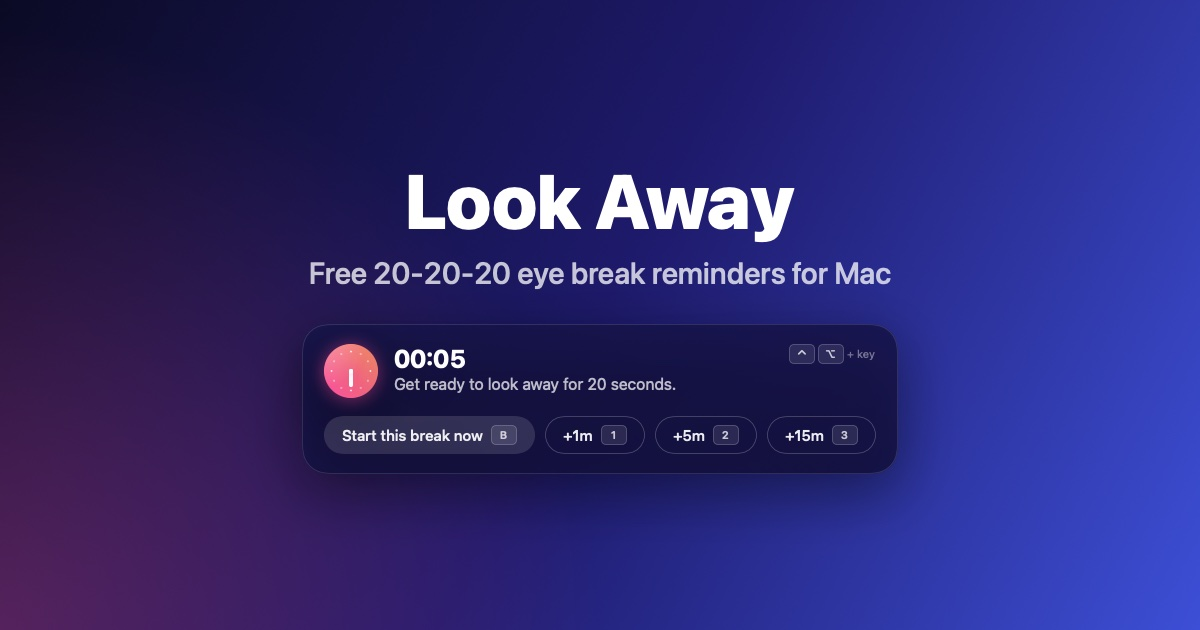
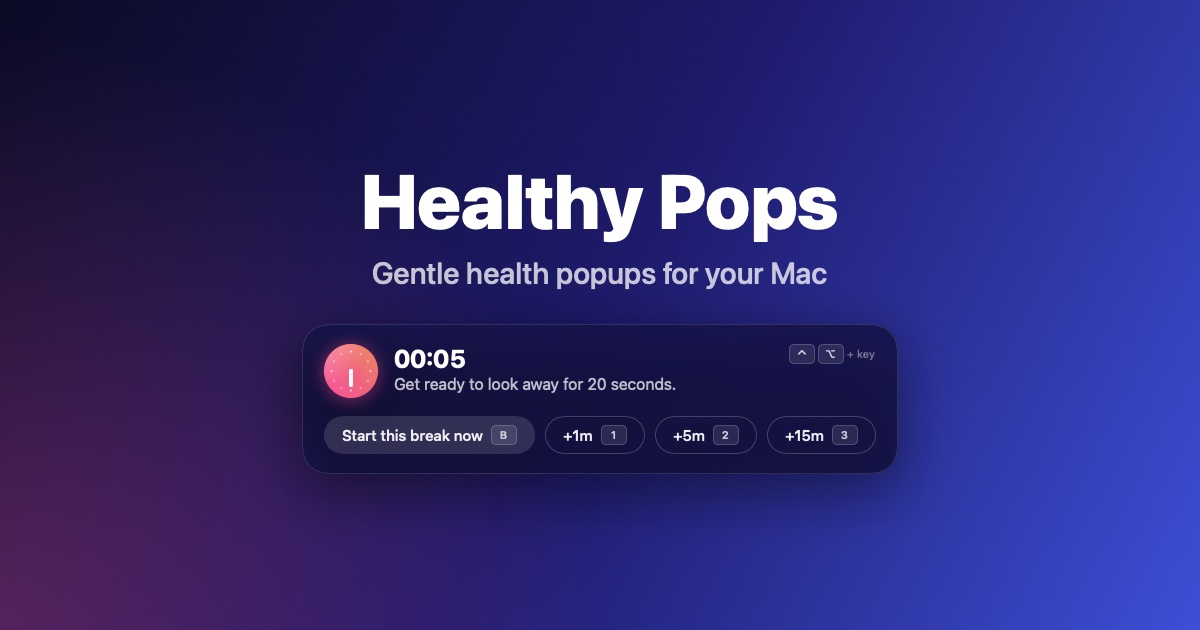
Rebrand to Healthy Pops
- App, menu, DMG and executable are now Healthy Pops / HealthyPops; the
  bundle ID stays the same so existing settings carry over, and
  build.sh --install replaces the old Look Away.app
- Release workflow publishes HealthyPops.dmg and deploys the site to
  the healthy-pops Cloudflare Pages project
- Landing page: new name, title and copy covering eye breaks, water,
  posture and custom popups; URLs point at healthy-pops.pages.dev and
  the renamed GitHub repo; refreshed social image
- Debug env var renamed to HEALTHYPOPS_DEBUG

Changed region(s): [[0.2775, 0.2714, 0.7092, 0.3921], [0.2467, 0.3921, 0.74, 0.4524]]

diff --git a/site/index.html b/site/index.html
@@ -3,10 +3,10 @@
 <head>
 <meta charset="utf-8">
 <meta name="viewport" content="width=device-width, initial-scale=1">
-<title>Look Away – Free 20-20-20 Eye Break Reminder for Mac</title>
-<meta name="description" content="Look Away is a free, open-source Mac menu bar app that reminds you to follow the 20-20-20 rule, drink water and fix your posture. Quiet during calls. No account, no tracking.">
-<meta name="keywords" content="20-20-20 rule app, eye strain Mac, eye break reminder, screen break app macOS, digital eye strain, posture reminder Mac, water reminder Mac, LookAway alternative, free break timer">
-<link rel="canonical" href="https://look-away.pages.dev/">
+<title>Healthy Pops – Free Eye Break, Water &amp; Posture Reminders for Mac</title>
+<meta name="description" content="Healthy Pops is a free, open-source Mac menu bar app with gentle popups for the 20-20-20 eye rule, drinking water, posture and your own custom reminders. Quiet during calls. No account, no tracking.">
+<meta name="keywords" content="20-20-20 rule app, eye strain Mac, eye break reminder, screen break app macOS, digital eye strain, posture reminder Mac, water reminder Mac, healthy pops, developer health app, custom reminders Mac, LookAway alternative, free break timer">
+<link rel="canonical" href="https://healthy-pops.pages.dev/">
 <meta name="robots" content="index, follow, max-image-preview:large">
 <meta name="theme-color" content="#0b0a24">
 <meta name="color-scheme" content="dark">
@@ -15,33 +15,33 @@
 <script>document.documentElement.classList.add('js')</script>
 
 <meta property="og:type" content="website">
-<meta property="og:site_name" content="Look Away">
-<meta property="og:title" content="Look Away – Free 20-20-20 Eye Break Reminder for Mac">
-<meta property="og:description" content="Gentle eye-break, water and posture reminders in your Mac menu bar. Quiet during calls. Free and open source.">
-<meta property="og:url" content="https://look-away.pages.dev/">
-<meta property="og:image" content="https://look-away.pages.dev/og.jpg">
+<meta property="og:site_name" content="Healthy Pops">
+<meta property="og:title" content="Healthy Pops – Free Eye Break, Water &amp; Posture Reminders for Mac">
+<meta property="og:description" content="Tiny popups that keep developers healthy: 20-20-20 eye breaks, water, posture and custom reminders. Quiet during calls. Free and open source.">
+<meta property="og:url" content="https://healthy-pops.pages.dev/">
+<meta property="og:image" content="https://healthy-pops.pages.dev/og.jpg">
 <meta property="og:image:width" content="1200">
 <meta property="og:image:height" content="630">
-<meta property="og:image:alt" content="Look Away reminder pill below the Mac menu bar">
+<meta property="og:image:alt" content="Healthy Pops reminder below the Mac menu bar">
 <meta name="twitter:card" content="summary_large_image">
-<meta name="twitter:title" content="Look Away – Free 20-20-20 Eye Break Reminder for Mac">
-<meta name="twitter:description" content="Gentle eye-break, water and posture reminders in your Mac menu bar. Free and open source.">
-<meta name="twitter:image" content="https://look-away.pages.dev/og.jpg">
+<meta name="twitter:title" content="Healthy Pops – Free Eye Break, Water &amp; Posture Reminders for Mac">
+<meta name="twitter:description" content="Tiny popups that keep developers healthy: eye breaks, water, posture and custom reminders. Free and open source.">
+<meta name="twitter:image" content="https://healthy-pops.pages.dev/og.jpg">
 
 <script type="application/ld+json">
 {
   "@context": "https://schema.org",
   "@type": "SoftwareApplication",
-  "name": "Look Away",
+  "name": "Healthy Pops",
   "applicationCategory": "HealthApplication",
   "applicationSubCategory": "Eye care and break reminder",
   "operatingSystem": "macOS 13 or later",
   "softwareVersion": "1.2.1",
-    "description": "A free Mac menu bar app that reminds you to follow the 20-20-20 rule to reduce eye strain, drink water and straighten your back. Breaks wait automatically during calls.",
-  "url": "https://look-away.pages.dev/",
-  "downloadUrl": "https://github.com/ThusharaSampath/look-away-timer/releases/latest/download/LookAway.dmg",
-  "image": "https://look-away.pages.dev/og.jpg",
-  "screenshot": "https://look-away.pages.dev/og.jpg",
+    "description": "A free Mac menu bar app with gentle popups that remind you to follow the 20-20-20 rule to reduce eye strain, drink water, straighten your back and anything else you set up. Breaks wait automatically during calls.",
+  "url": "https://healthy-pops.pages.dev/",
+  "downloadUrl": "https://github.com/ThusharaSampath/healthy-pops/releases/latest/download/HealthyPops.dmg",
+  "image": "https://healthy-pops.pages.dev/og.jpg",
+  "screenshot": "https://healthy-pops.pages.dev/og.jpg",
   "isAccessibleForFree": true,
   "author": { "@type": "Person", "name": "Thushara Sampath", "url": "https://github.com/ThusharaSampath" },
   "offers": { "@type": "Offer", "price": "0", "priceCurrency": "USD" }
@@ -54,16 +54,18 @@
   "mainEntity": [
     {"@type": "Question", "name": "What is the 20-20-20 rule?",
      "acceptedAnswer": {"@type": "Answer", "text": "Every 20 minutes of screen time, look at something about 20 feet (6 metres) away for about 20 seconds. It relaxes the eye muscles that stay tense while focusing on a close screen and helps reduce digital eye strain."}},
-    {"@type": "Question", "name": "Is Look Away free?",
-     "acceptedAnswer": {"@type": "Answer", "text": "Yes. Look Away is free and open source, with no account, ads or in-app purchases."}},
+    {"@type": "Question", "name": "Is Healthy Pops free?",
+     "acceptedAnswer": {"@type": "Answer", "text": "Yes. Healthy Pops is free and open source, with no account, ads or in-app purchases."}},
     {"@type": "Question", "name": "Will it interrupt my meetings?",
      "acceptedAnswer": {"@type": "Answer", "text": "No. While your microphone or camera is in use, or you are sharing your screen in Zoom, breaks and reminders wait and appear shortly after the call ends."}},
-    {"@type": "Question", "name": "Does Look Away collect any data?",
+    {"@type": "Question", "name": "Does Healthy Pops collect any data?",
      "acceptedAnswer": {"@type": "Answer", "text": "No. Everything runs locally on your Mac. Nothing is sent anywhere and it needs no special permissions."}},
     {"@type": "Question", "name": "Why does macOS warn me when I first open it?",
-     "acceptedAnswer": {"@type": "Answer", "text": "The app is not notarized with a paid Apple Developer ID. Right-click Look Away in Applications and choose Open the first time; after that it opens normally."}},
+     "acceptedAnswer": {"@type": "Answer", "text": "The app is not notarized with a paid Apple Developer ID. Right-click Healthy Pops in Applications and choose Open the first time; after that it opens normally."}},
     {"@type": "Question", "name": "Can I change the timings?",
-     "acceptedAnswer": {"@type": "Answer", "text": "Yes. Screen time, break length, water and posture intervals can all be adjusted from the menu bar, and water and posture reminders can be switched off."}}
+     "acceptedAnswer": {"@type": "Answer", "text": "Yes. Screen time, break length, water and posture intervals can all be adjusted from the menu bar, and water and posture reminders can be switched off."}},
+    {"@type": "Question", "name": "Can I make my own reminders?",
+     "acceptedAnswer": {"@type": "Answer", "text": "Yes. Custom Popups in the menu opens a keyboard-friendly editor where you pick a title, message, icon, colour and how often it appears, measured in screen time."}}
   ]
 }
 </script>
@@ -232,7 +234,7 @@
   @keyframes toastbar { from { width: 100%; } to { width: 0; } }
 
   /* Feature grid */
-  .grid { display: grid; grid-template-columns: repeat(3, 1fr); gap: 16px; }
+  .grid { display: grid; grid-template-columns: repeat(4, 1fr); gap: 16px; }
   .card { padding: 26px; border-radius: 20px; border: 1px solid var(--line); background: var(--glass); transition: border-color .2s, transform .2s; }
   .card:hover { border-color: rgba(255,255,255,.2); transform: translateY(-2px); }
   .card .ic { width: 42px; height: 42px; border-radius: 12px; display: grid; place-items: center; font-size: 21px; background: rgba(255,255,255,.07); }
@@ -285,13 +287,13 @@
 <body>
 <header id="top">
   <div class="wrap nav">
-    <a class="brand" href="/"><img src="favicon.svg" alt="" width="26" height="26">Look Away</a>
+    <a class="brand" href="/"><img src="favicon.svg" alt="" width="26" height="26">Healthy Pops</a>
     <nav aria-label="Main">
       <a href="#how">How it works</a>
       <a href="#features">Features</a>
       <a href="#faq">FAQ</a>
-      <a href="https://github.com/ThusharaSampath/look-away-timer">GitHub</a>
-      <a class="nav-cta" href="https://github.com/ThusharaSampath/look-away-timer/releases/latest/download/LookAway.dmg">Download</a>
+      <a href="https://github.com/ThusharaSampath/healthy-pops">GitHub</a>
+      <a class="nav-cta" href="https://github.com/ThusharaSampath/healthy-pops/releases/latest/download/HealthyPops.dmg">Download</a>
     </nav>
   </div>
 </header>
@@ -299,10 +301,10 @@
 <main>
   <div class="wrap hero">
     <div class="eyebrow">🍎 <b>Free</b> for macOS · open source</div>
-    <h1>Rest your eyes.<br><span class="grad-text">Without thinking about it.</span></h1>
-    <p class="lead">Look Away is a tiny Mac menu bar app that follows the <strong>20-20-20 rule</strong> for you, nudges you to drink water and sit up straight, and stays out of the way during calls.</p>
+    <h1>Stay healthy at your desk.<br><span class="grad-text">Without thinking about it.</span></h1>
+    <p class="lead">Healthy Pops is a tiny Mac menu bar app with gentle popups that follow the <strong>20-20-20 eye rule</strong> for you, nudge you to drink water and sit up straight, and remind you of anything else you like. It stays quiet during calls.</p>
     <div class="actions">
-      <a class="cta" href="https://github.com/ThusharaSampath/look-away-timer/releases/latest/download/LookAway.dmg">
+      <a class="cta" href="https://github.com/ThusharaSampath/healthy-pops/releases/latest/download/HealthyPops.dmg">
         <svg width="18" height="18" viewBox="0 0 24 24" fill="currentColor" aria-hidden="true"><path d="M16.37 12.6c-.02-2.3 1.88-3.4 1.97-3.46-1.07-1.57-2.74-1.78-3.33-1.8-1.42-.14-2.77.83-3.49.83-.72 0-1.83-.81-3-.79-1.55.02-2.97.9-3.77 2.28-1.61 2.79-.41 6.92 1.16 9.18.77 1.11 1.68 2.35 2.88 2.3 1.16-.05 1.6-.75 2.99-.75 1.4 0 1.79.75 3.01.73 1.24-.02 2.03-1.13 2.79-2.24.88-1.29 1.24-2.53 1.26-2.6-.03-.01-2.42-.93-2.47-3.68zM14.1 5.86c.64-.78 1.07-1.85.95-2.92-.92.04-2.03.61-2.69 1.38-.59.68-1.11 1.77-.97 2.82 1.03.08 2.07-.52 2.71-1.28z"/></svg>
         Download for Mac
       </a>
@@ -310,10 +312,10 @@
     </div>
     <p class="meta">Version <span data-version>1.2.1</span> · macOS 13+ · Apple Silicon &amp; Intel · under 1 MB</p>
 
-    <div class="desk" role="img" aria-label="The Look Away reminder dropping in below the Mac menu bar: get ready to look away for 20 seconds">
+    <div class="desk" role="img" aria-label="The Healthy Pops reminder dropping in below the Mac menu bar: get ready to look away for 20 seconds">
       <div class="menubar">
         <div class="left"><svg width="13" height="15" viewBox="0 0 24 24" fill="currentColor" aria-hidden="true"><path d="M16.37 12.6c-.02-2.3 1.88-3.4 1.97-3.46-1.07-1.57-2.74-1.78-3.33-1.8-1.42-.14-2.77.83-3.49.83-.72 0-1.83-.81-3-.79-1.55.02-2.97.9-3.77 2.28-1.61 2.79-.41 6.92 1.16 9.18.77 1.11 1.68 2.35 2.88 2.3 1.16-.05 1.6-.75 2.99-.75 1.4 0 1.79.75 3.01.73 1.24-.02 2.03-1.13 2.79-2.24.88-1.29 1.24-2.53 1.26-2.6-.03-.01-2.42-.93-2.47-3.68zM14.1 5.86c.64-.78 1.07-1.85.95-2.92-.92.04-2.03.61-2.69 1.38-.59.68-1.11 1.77-.97 2.82 1.03.08 2.07-.52 2.71-1.28z"/></svg><b>Code</b><span>File</span><span>Edit</span><span>View</span><span>Window</span></div>
-        <div class="right"><span class="status">👀 20m</span><span class="opt">Wi‑Fi</span><span class="opt">🔋</span><span>Fri 9:41</span></div>
+        <div class="right"><span class="status">20m</span><span class="opt">Wi‑Fi</span><span class="opt">🔋</span><span>Fri 9:41</span></div>
       </div>
       <div class="pill">
         <div class="pill-top">
@@ -338,7 +340,7 @@
       <div class="section-head reveal">
         <div class="kicker grad-text">How it works</div>
         <h2 id="how-h">Designed to make you look away from it</h2>
-        <p class="sub">Most break apps give you something to read. Look Away gives you nothing, on purpose.</p>
+        <p class="sub">Most break apps give you something to read. Healthy Pops gives you nothing, on purpose.</p>
       </div>
 
       <div class="step reveal">
@@ -360,7 +362,6 @@
               <div>
                 <div class="time">00:03</div>
                 <div class="msg">Get ready to look away for 20 seconds.</div>
-                <div class="msg" style="margin-top:2px"><span style="color:var(--water)">💧</span> Good moment to grab some water.</div>
               </div>
             </div>
             <div class="chips">
@@ -387,7 +388,7 @@
           <div class="glow"></div>
           <div class="window">
             <div class="window-bar"><i></i><i></i><i></i></div>
-            <div class="screen" role="img" aria-label="Look Away break screen: a calm blurred overlay saying 'Nothing here to look at' with a draining timeline bar and a Skip button">
+            <div class="screen" role="img" aria-label="Healthy Pops break screen: a calm blurred overlay saying 'Nothing here to look at' with a draining timeline bar and a Skip button">
               <div class="screen-title">Nothing here to look at.</div>
               <div class="drain"><span></span></div>
               <div class="screen-skip">Skip</div>
@@ -459,10 +460,12 @@
       <div class="grid reveal">
         <div class="card"><div class="ic">🧠</div><h3>Counts real screen time</h3><p>Lock your Mac, let it sleep or walk away, and the timer starts over. You only get breaks after you've actually been staring at the screen.</p></div>
         <div class="card"><div class="ic">📞</div><h3>Quiet during calls</h3><p>Mic or camera on, or sharing your screen? Breaks wait until the call ends, then show up a few seconds later.</p></div>
-        <div class="card"><div class="ic">💧</div><h3>Water reminders</h3><p>About once an hour, a break doubles as a water break. Log a glass with <kbd>W</kbd> and track your daily count.</p></div>
+        <div class="card"><div class="ic">💧</div><h3>Water reminders</h3><p>About once an hour, a small popup with a silly line reminds you to drink. Log a glass with <kbd>⌃⌥W</kbd> and track your daily count.</p></div>
         <div class="card"><div class="ic">🧍</div><h3>Posture nudges</h3><p>A short, funny reminder to straighten up. Turn it off any time from the menu.</p></div>
         <div class="card"><div class="ic">⌨</div><h3>Keyboard first</h3><p>Start, snooze, skip and adjust everything without touching the mouse.</p></div>
+        <div class="card"><div class="ic">✨</div><h3>Your own popups</h3><p>Make reminders for anything: stretch, eye drops, a walk. Pick an icon, colour and interval, all from the keyboard.</p></div>
         <div class="card"><div class="ic">🔒</div><h3>Private by design</h3><p>No account, no analytics, no network calls, no special permissions. It all stays on your Mac.</p></div>
+        <div class="card"><div class="ic">🪶</div><h3>Tiny and native</h3><p>A lightweight native Swift app, well under 1 MB, that sips memory and battery.</p></div>
       </div>
     </div>
   </section>
@@ -472,7 +475,7 @@
       <div class="section-head reveal">
         <div class="kicker grad-text">The science bit</div>
         <h2 id="rule-h">What is the 20-20-20 rule?</h2>
-        <p class="sub">Focusing on a close screen keeps your eye muscles tense for hours. Eye doctors recommend a simple habit to let them relax, and Look Away does the remembering for you.</p>
+        <p class="sub">Focusing on a close screen keeps your eye muscles tense for hours. Eye doctors recommend a simple habit to let them relax, and Healthy Pops does the remembering for you.</p>
       </div>
       <div class="rule reveal">
         <div><b class="grad-text">20</b><span>minutes of screen time</span></div>
@@ -490,28 +493,29 @@
       </div>
       <div class="faq reveal">
         <details><summary>What is the 20-20-20 rule?</summary><p>Every 20 minutes of screen time, look at something about 20 feet (6 metres) away for about 20 seconds. It relaxes the eye muscles that stay tense while focusing on a close screen and helps reduce digital eye strain.</p></details>
-        <details><summary>Is Look Away free?</summary><p>Yes. Look Away is free and open source, with no account, ads or in-app purchases.</p></details>
+        <details><summary>Is Healthy Pops free?</summary><p>Yes. Healthy Pops is free and open source, with no account, ads or in-app purchases.</p></details>
         <details><summary>Will it interrupt my meetings?</summary><p>No. While your microphone or camera is in use, or you are sharing your screen in Zoom, breaks and reminders wait and appear shortly after the call ends.</p></details>
-        <details><summary>Does Look Away collect any data?</summary><p>No. Everything runs locally on your Mac. Nothing is sent anywhere and it needs no special permissions.</p></details>
-        <details><summary>Why does macOS warn me when I first open it?</summary><p>The app is not notarized with a paid Apple Developer ID. Right-click Look Away in Applications and choose <strong>Open</strong> the first time; after that it opens normally.</p></details>
+        <details><summary>Does Healthy Pops collect any data?</summary><p>No. Everything runs locally on your Mac. Nothing is sent anywhere and it needs no special permissions.</p></details>
+        <details><summary>Why does macOS warn me when I first open it?</summary><p>The app is not notarized with a paid Apple Developer ID. Right-click Healthy Pops in Applications and choose <strong>Open</strong> the first time; after that it opens normally.</p></details>
         <details><summary>Can I change the timings?</summary><p>Yes. Screen time, break length, water and posture intervals can all be adjusted from the menu bar, and water and posture reminders can be switched off.</p></details>
+        <details><summary>Can I make my own reminders?</summary><p>Yes. <strong>Custom Popups</strong> in the menu opens a keyboard-friendly editor where you pick a title, message, icon, colour and how often it appears, measured in screen time.</p></details>
       </div>
     </div>
   </section>
 
   <section class="final">
     <div class="wrap reveal">
-      <h2>Your eyes will<br><span class="grad-text">appreciate this.</span></h2>
+      <h2>Your body will<br><span class="grad-text">appreciate this.</span></h2>
       <p class="sub" style="margin: 0 auto 34px">Free for macOS 13 Ventura and later.</p>
-      <a class="cta" href="https://github.com/ThusharaSampath/look-away-timer/releases/latest/download/LookAway.dmg">Download Look Away</a>
+      <a class="cta" href="https://github.com/ThusharaSampath/healthy-pops/releases/latest/download/HealthyPops.dmg">Download Healthy Pops</a>
     </div>
   </section>
 </main>
 
 <footer>
   <div class="wrap">
-    Look Away <span data-version>1.2.1</span> · Open source on <a href="https://github.com/ThusharaSampath/look-away-timer">GitHub</a> ·
-    <a href="https://github.com/ThusharaSampath/look-away-timer/releases">Release notes</a>
+    Healthy Pops <span data-version>1.2.1</span> · Open source on <a href="https://github.com/ThusharaSampath/healthy-pops">GitHub</a> ·
+    <a href="https://github.com/ThusharaSampath/healthy-pops/releases">Release notes</a>
     <br>Not medical advice. If your eyes keep hurting, see an eye doctor.
   </div>
 </footer>

diff --git a/Sources/HealthyPops/AppDelegate.swift b/Sources/HealthyPops/AppDelegate.swift
@@ -137,7 +137,7 @@ final class AppDelegate: NSObject, NSApplicationDelegate, NSMenuDelegate {
 
         button.image = nil
         button.title = title
-        button.setAccessibilityLabel("Look Away: \(statusDescription())")
+        button.setAccessibilityLabel("Healthy Pops: \(statusDescription())")
         statusLine.title = statusDescription()
     }
 
@@ -248,7 +248,7 @@ final class AppDelegate: NSObject, NSApplicationDelegate, NSMenuDelegate {
         let login = item("Launch at Login", #selector(toggleLaunchAtLogin), key: "")
         login.state = SMAppService.mainApp.status == .enabled ? .on : .off
         menu.addItem(login)
-        menu.addItem(item("Quit Look Away", #selector(quit), key: "q"))
+        menu.addItem(item("Quit Healthy Pops", #selector(quit), key: "q"))
     }
 
     /// Next multiple of `step` in direction `dir`, so odd values (e.g. 9 s from the dial) land on the grid.
@@ -385,7 +385,7 @@ final class AppDelegate: NSObject, NSApplicationDelegate, NSMenuDelegate {
         } catch {
             let alert = NSAlert()
             alert.messageText = "Couldn't change Launch at Login"
-            alert.informativeText = "\(error.localizedDescription)\n\nMove Look Away.app to /Applications and try again."
+            alert.informativeText = "\(error.localizedDescription)\n\nMove Healthy Pops.app to /Applications and try again."
             NSApp.activate(ignoringOtherApps: true)
             alert.runModal()
         }

diff --git a/Sources/HealthyPops/BreakScheduler.swift b/Sources/HealthyPops/BreakScheduler.swift
@@ -46,8 +46,8 @@ final class BreakScheduler {
 
         static var standard: Config {
             let defaults = UserDefaults.standard
-            // LOOKAWAY_DEBUG=1 shortens everything so the flow can be checked quickly.
-            let debug = ProcessInfo.processInfo.environment["LOOKAWAY_DEBUG"] != nil
+            // HEALTHYPOPS_DEBUG=1 shortens everything so the flow can be checked quickly.
+            let debug = ProcessInfo.processInfo.environment["HEALTHYPOPS_DEBUG"] != nil
             var config = debug
                 ? Config(workInterval: 30, breakDuration: 20, warningLead: 5, idleReset: 45,
                          waterInterval: 50, waterAwayReset: 90, postureInterval: 15)
@@ -374,9 +374,9 @@ final class BreakScheduler {
     // MARK: - System state helpers
 
     private static let debugStart = Date()
-    private static let debugEnabled = ProcessInfo.processInfo.environment["LOOKAWAY_DEBUG"] != nil
+    private static let debugEnabled = ProcessInfo.processInfo.environment["HEALTHYPOPS_DEBUG"] != nil
 
-    /// Timeline log for LOOKAWAY_DEBUG runs; silent otherwise.
+    /// Timeline log for HEALTHYPOPS_DEBUG runs; silent otherwise.
     static func debugLog(_ message: @autoclosure () -> String) {
         guard debugEnabled else { return }
         print(String(format: "[%5.1fs] ", Date().timeIntervalSince(debugStart)) + message())

diff --git a/Package.swift b/Package.swift
@@ -2,9 +2,9 @@
 import PackageDescription
 
 let package = Package(
-    name: "LookAway",
+    name: "HealthyPops",
     platforms: [.macOS(.v13)],
     targets: [
-        .executableTarget(name: "LookAway", path: "Sources/LookAway")
+        .executableTarget(name: "HealthyPops", path: "Sources/HealthyPops")
     ]
 )
